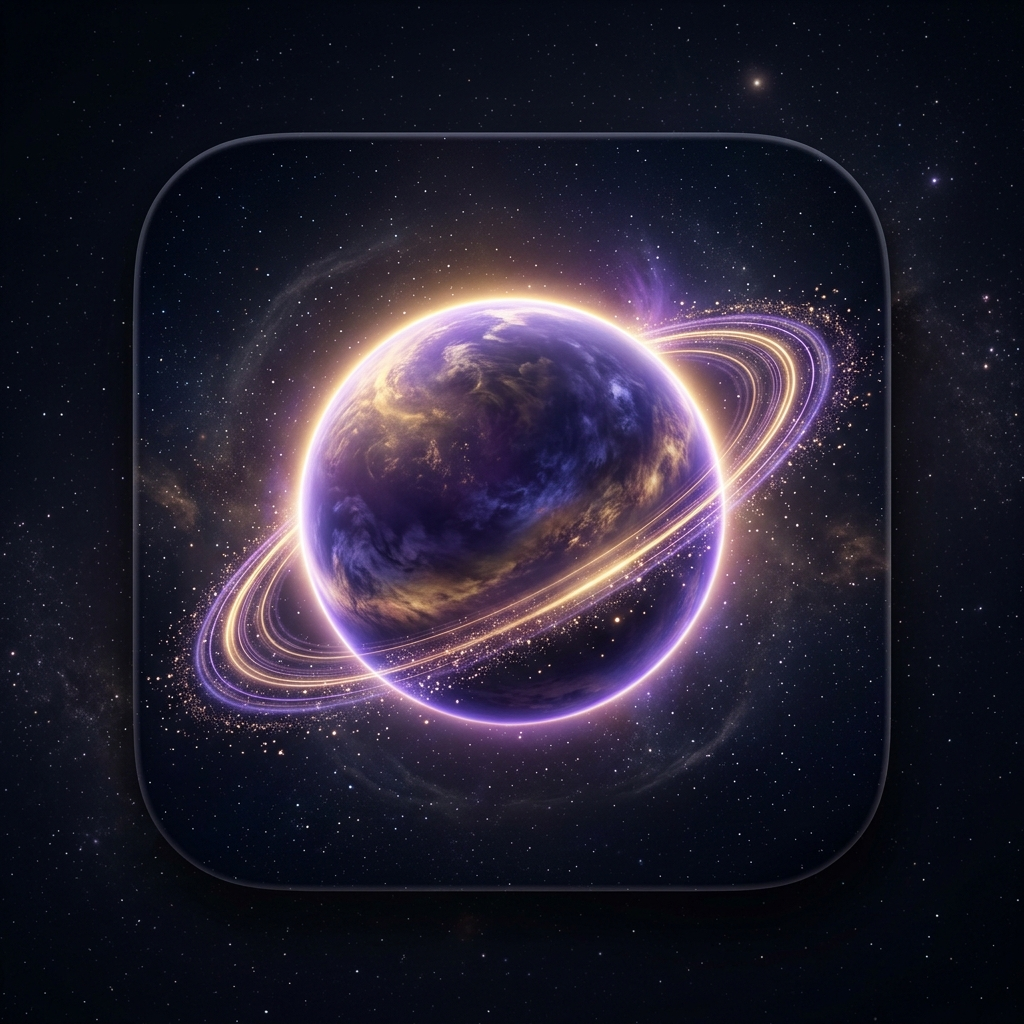
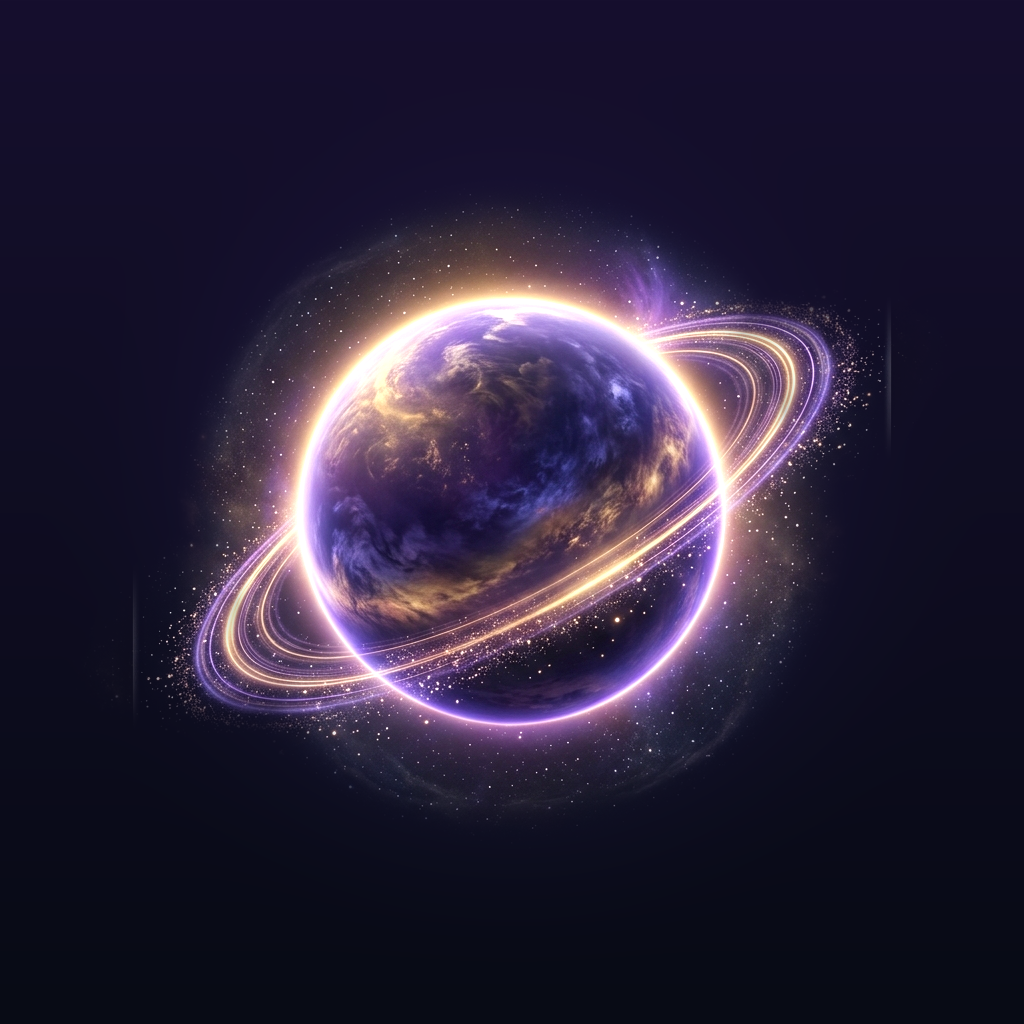
feat(release): update SideStore source to MindSpace iOS v2.3.0

diff --git a/index.html b/index.html
@@ -162,12 +162,12 @@
   <div class="container">
     <img src="AppIcon-1024.png" alt="MindSpace Icon" class="app-icon">
     <h1>MindSpace iOS</h1>
-    <div class="badge">v2.1.0 (Build 8) • 100% Offline</div>
+    <div class="badge">v2.3.0 (Build 10) • 100% Offline</div>
     <p class="subtitle">Official Public SideStore & AltStore Source for MindSpace iOS. 100% private offline celestial meditation.</p>
     
-    <a href="https://github.com/vkr1729/mindspace-source/releases/download/v2.1.0/MindSpace.ipa" class="btn btn-primary" download>
+    <a href="https://github.com/vkr1729/mindspace-source/releases/download/v2.3.0/MindSpace.ipa" class="btn btn-primary" download>
       <svg width="18" height="18" viewBox="0 0 24 24" fill="none" stroke="currentColor" stroke-width="2" stroke-linecap="round" stroke-linejoin="round"><path d="M21 15v4a2 2 0 0 1-2 2H5a2 2 0 0 1-2-2v-4"/><polyline points="7 10 12 15 17 10"/><line x1="12" y1="15" x2="12" y2="3"/></svg>
-      Download MindSpace.ipa (8.7 MB)
+      Download MindSpace.ipa (5.3 MB)
     </a>
 
     <a href="sidestore://source?url=https://vkr1729.github.io/mindspace-source/apps.json" class="btn btn-secondary">
@@ -181,13 +181,13 @@
     </div>
 
     <div class="features">
-      <h3>What's New in v2.1</h3>
+      <h3>What's New in v2.3</h3>
       <ul>
-        <li>Day-attached video sequencing with automatic MP4 to MP3 transition</li>
-        <li>Persistent rolling 30-day Compassion Passes</li>
-        <li>Listening state persistence across app restarts with interval union</li>
-        <li>5-step cosmic onboarding, goal selector, and Medical Disclaimer</li>
-        <li>Full accessibility with VoiceOver adjustable scrubber and traits</li>
+        <li>Cinematic Hybrid Celestial Bodies: 100% transparent alpha blending on all 9 planet artworks</li>
+        <li>Atmospheric Coronas & Specular Rims: Multi-stop radial backlighting with specular rim lighting</li>
+        <li>Mindful Breathing Physics: Hypnotic 4-second synchronized visual respiration guide</li>
+        <li>Polished iOS App Icon: Deep space cosmic gradients and radiant nebula backlighting</li>
+        <li>Private GitHub Content Sync: Secure Keychain PAT credentials and selective course downloads</li>
         <li>Zero Network Guarantee: 100% Private Offline Meditation</li>
       </ul>
     </div>
